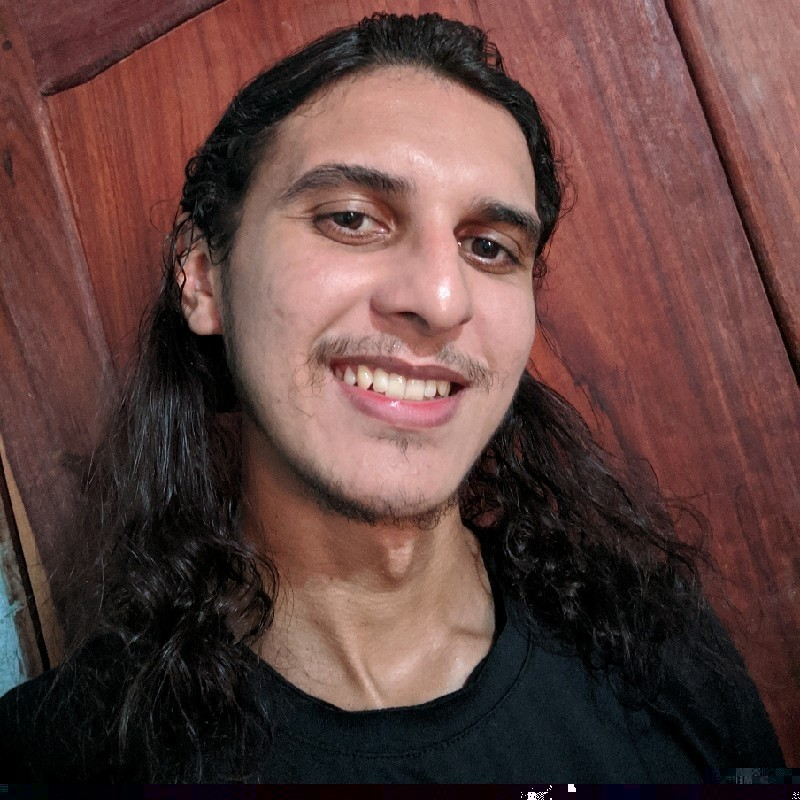
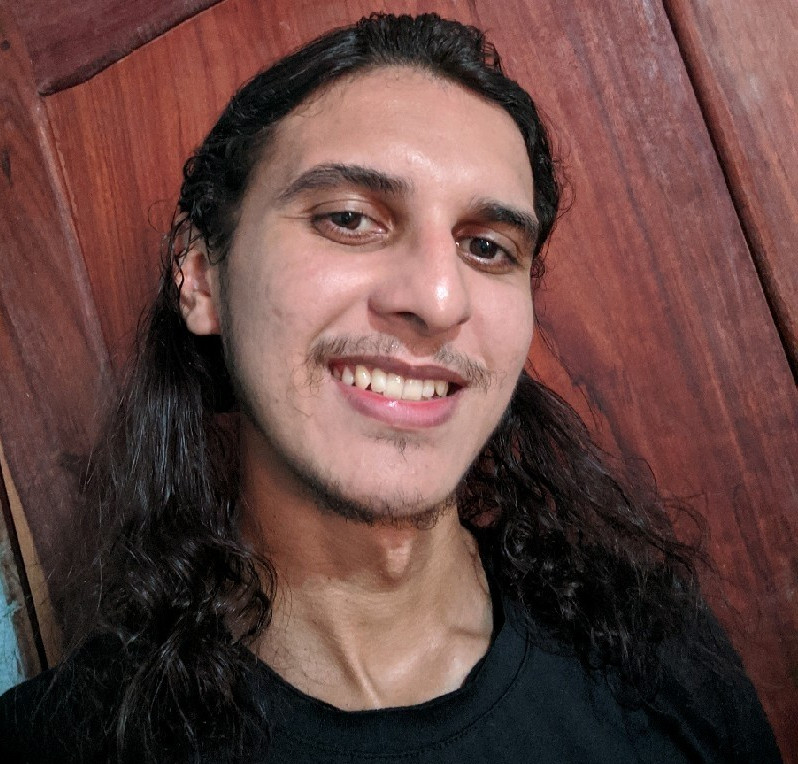
Update image profile, index and script

diff --git a/index.html b/index.html
@@ -69,20 +69,17 @@
                         <div class="row">
                             <div class="personal-info padd-15">
                                 <div class="row">
-                                    <div class="info-item padd-15">
+                                   <!--  <div class="info-item padd-15">
                                         <p>Birthday : <span>19/07/1995</span></p>
-                                    </div>
-                                    <div class="info-item padd-15">
+                                    </div> -->
+                                   <!--  <div class="info-item padd-15">
                                         <p>Age : <span>27</span></p>
                                     </div>
                                     <div class="info-item padd-15">
                                         <p>Website : <span></span></p>
-                                    </div>
+                                    </div> -->
                                     <div class="info-item padd-15">
-                                        <p>Email : <span>chrysthianprudencio@gmail.com</span></p>
-                                    </div>
-                                    <div class="info-item padd-15">
-                                        <p>Degree : <span>Computer Science/span></p>
+                                        <p>Degree : <span>Computer Science</span></p>
                                     </div>
                                     <div class="info-item padd-15">
                                         <p>Phone : <span>96 984030761</span></p>
@@ -92,6 +89,9 @@
                                     </div>
                                     <div class="info-item padd-15">
                                         <p>FreeLance : <span>Available</span></p>
+                                    </div>
+                                    <div class="info-item padd-15">
+                                        <p>Email : <span>chrysthianprudencio@gmail.com</span></p>
                                     </div>
                                 </div>
                                 <div class="row">

diff --git a/js/script.js b/js/script.js
@@ -18,12 +18,12 @@ const nav = document.querySelector(".nav"),
         const a = navList[i].querySelector("a");
         a.addEventListener("click", function(){
    
-            /* removeBackSection(); */
+            
             for(let j=0; j<totalNavList; j++){
                 
                 if(navList[j].querySelector("a").classList.contains("active")) {
 
-                    /* addBackSection(); */
+                    
                     allSection[j].classList.add("back-section");
                 }
                 
@@ -39,18 +39,6 @@ const nav = document.querySelector(".nav"),
             }
         })        
     }
-   /*  function removeBackSection() {
-
-        for(let i=0; i<totalSection; i++) {
-            
-            allSection[i].classList.remove("back-section");
-        }
-
-    } */
- /*    function addBackSection(num) {
-
-        allSection[num].classList.add("back-section");
-    } */
 
     function showSection(element) {
 
@@ -78,8 +66,7 @@ const nav = document.querySelector(".nav"),
         const sectionIndex = this.getAttribute("data-section-index");
         showSection(this);
         updateNow(this);
-        /* removeBackSection();
-        addBackSection(sectionIndex); */
+        
     })
     const navTogglerBtn = document.querySelector(".nav-toggler"),
     aside = document.querySelector(".aside");
